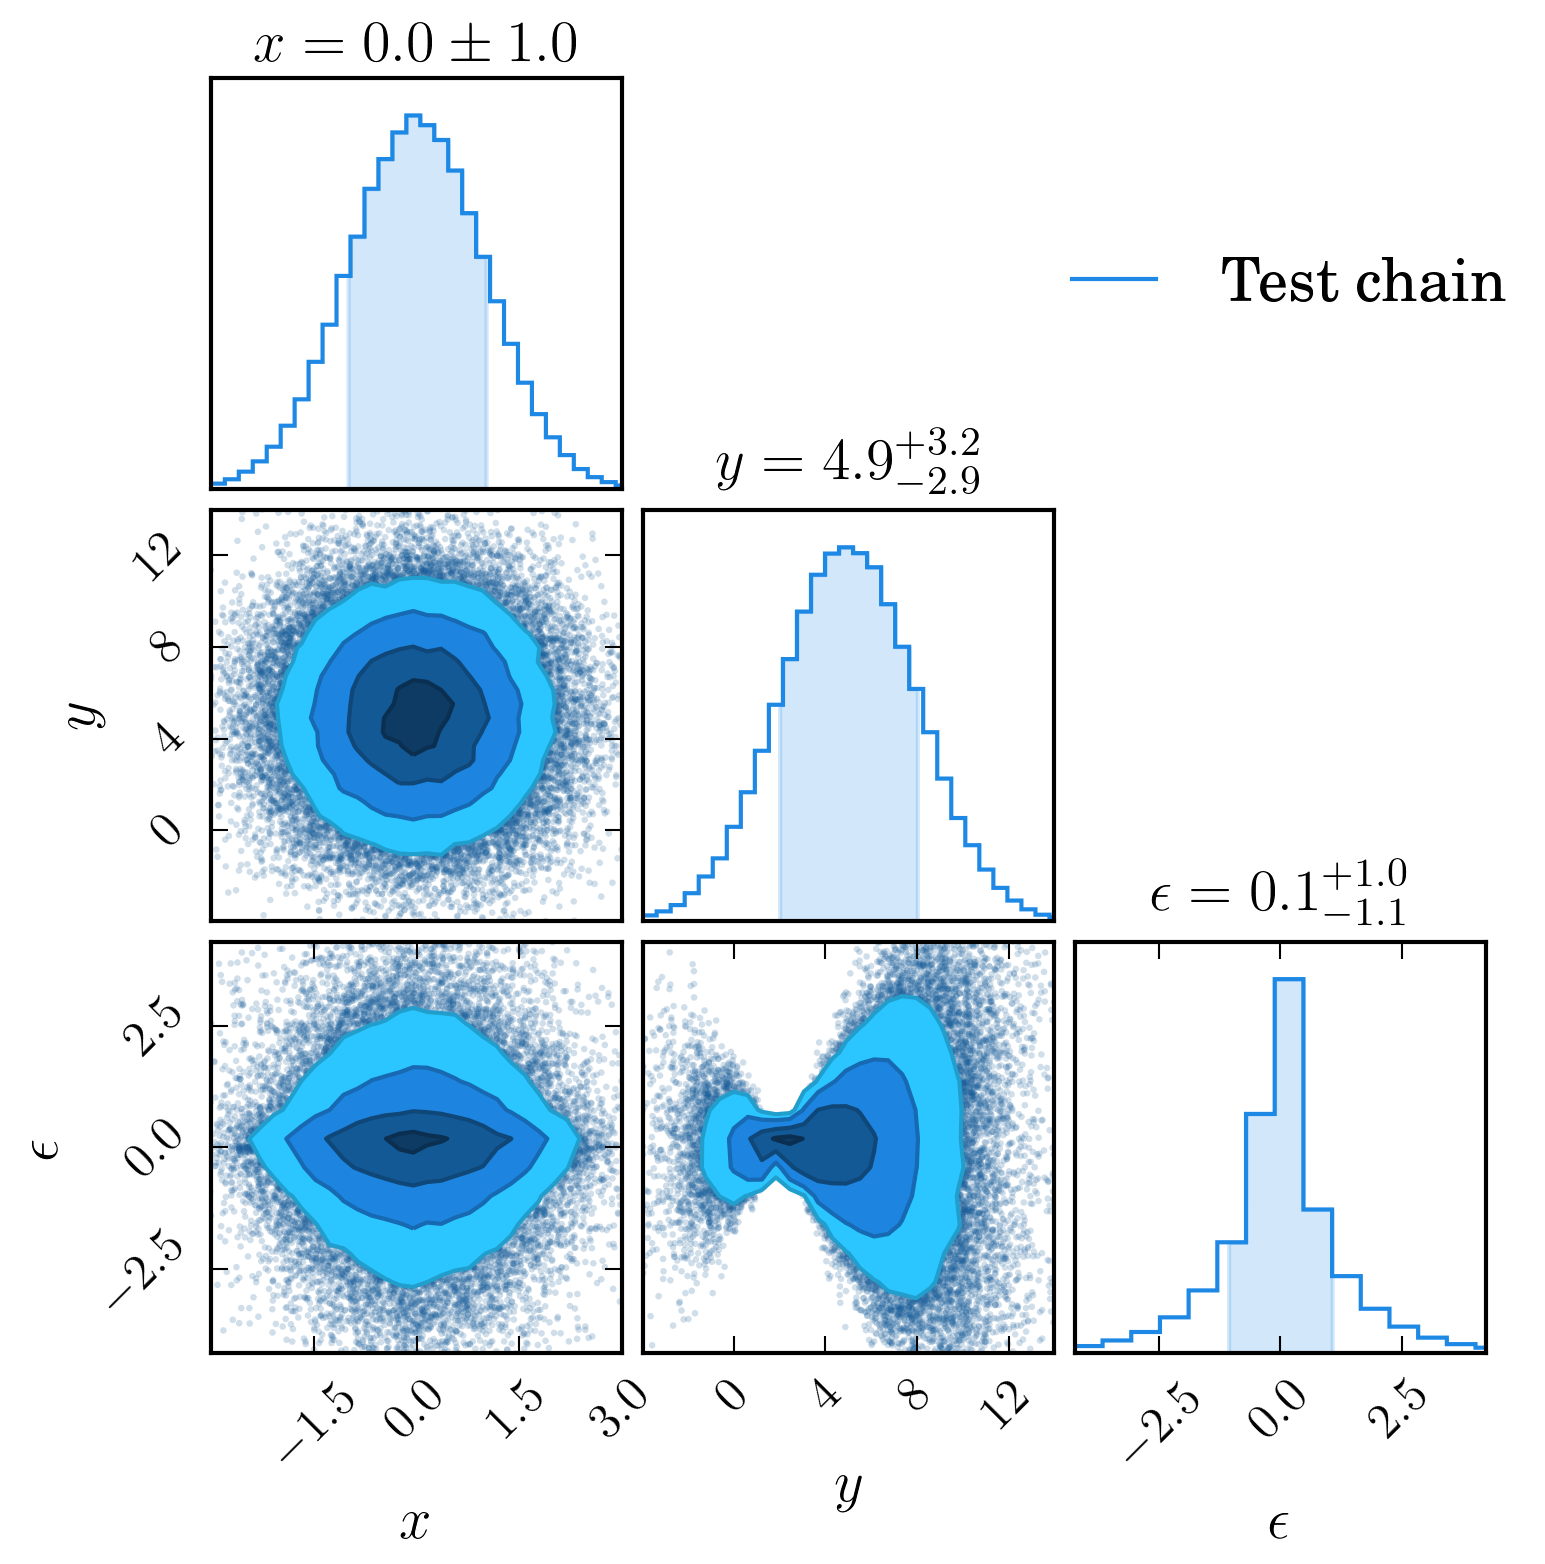
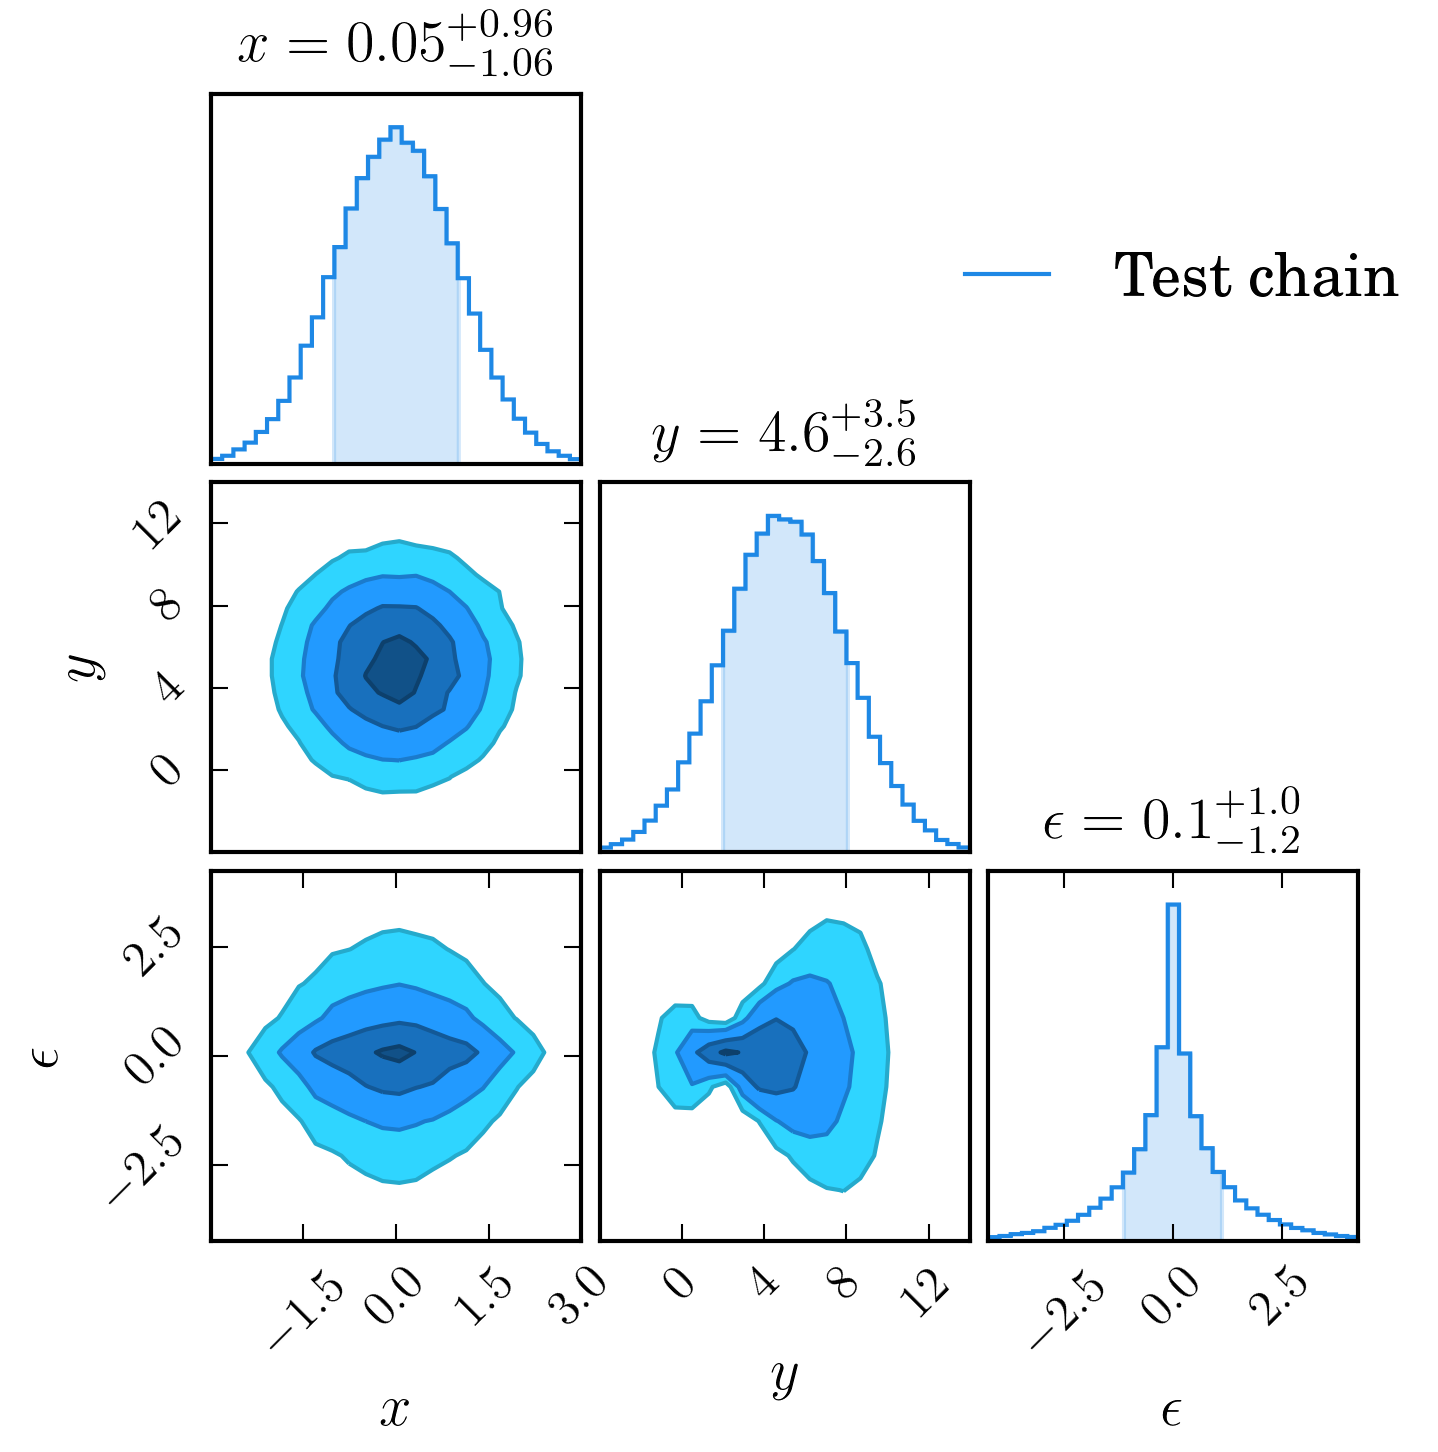
Updating chain consumer parameter statistics.

diff --git a/dessn/chain/chain.py b/dessn/chain/chain.py
@@ -207,10 +207,10 @@ class ChainConsumer(object):
             One entry per chain, parameter bounds stored in dictionary with parameter as key
         """
         results = []
-        for chain, parameters in zip(self.chains, self.parameters):
+        for ind, (chain, parameters) in enumerate(zip(self.chains, self.parameters)):
             res = {}
             for i, p in enumerate(parameters):
-                summary = self._get_parameter_summary(chain[:, i], p)
+                summary = self._get_parameter_summary(chain[:, i], p, ind)
                 res[p] = summary
             results.append(res)
         return results
@@ -329,9 +329,12 @@ class ChainConsumer(object):
         r = 1
         if np.abs(resolution) > 2:
             factor = -resolution - 1
-        if resolution == -2:
+        if resolution == -1:
             fmt = "%0.2f"
             r = 2
+        elif resolution == -2:
+            fmt = "%0.3f"
+            r = 3
         upper_error *= 10 ** factor
         lower_error *= 10 ** factor
         maximum *= 10 ** factor
@@ -742,17 +745,17 @@ class ChainConsumer(object):
     def _get_bins(self):
         proposal = [max(20, np.floor(1.2 * np.power(chain.shape[0] / chain.shape[1], 0.3))) for chain in self.chains]
         return proposal
-        
+
     def _clamp(self, val, minimum=0, maximum=255):
         if val < minimum:
             return minimum
         if val > maximum:
             return maximum
         return val
-    
+
     def _scale_colours(self, colour, num):
         # http://thadeusb.com/weblog/2010/10/10/python_scale_hex_color
-        scales = np.logspace(np.log(0.7), np.log(1.4), num)
+        scales = np.logspace(np.log(0.8), np.log(1.4), num)
         colours = [self._scale_colour(colour, scale) for scale in scales]
         return colours
 
@@ -775,22 +778,25 @@ class ChainConsumer(object):
         sigma = sigma.ravel()
         i_sort = np.argsort(sigma)[::-1]
         i_unsort = np.argsort(i_sort)
-    
+
         sigma_cumsum = 1.0* sigma[i_sort].cumsum()
         sigma_cumsum /= sigma_cumsum[-1]
-    
+
         return sigma_cumsum[i_unsort].reshape(shape)
 
-    def _get_parameter_summary(self, data, parameter, bins=50, desired_area=0.6827):
+    def _get_parameter_summary(self, data, parameter, chain_index, desired_area=0.6827):
+        if not self._configured_general:
+            self.configure_general()
+        bins = self.parameters_general['bins'][chain_index]
         hist, edges = np.histogram(data, bins=bins, normed=True)
         edge_centers = 0.5 * (edges[1:] + edges[:-1])
-        
+
         xs = np.linspace(edge_centers[0], edge_centers[-1], 10000)
         ys = interp1d(edge_centers, hist, kind="linear")(xs)
-        
+
         cs = ys.cumsum()
         cs /= cs.max()
-        
+
         startIndex = ys.argmax()
         maxVal = ys[startIndex]
         minVal = 0
@@ -801,7 +807,7 @@ class ChainConsumer(object):
         count = 0
         while x1 is None:
             mid = (maxVal + minVal) / 2.0
-            count += 1                    
+            count += 1
             try:
                 if count > 50:
                     raise Exception("Failed to converge")
